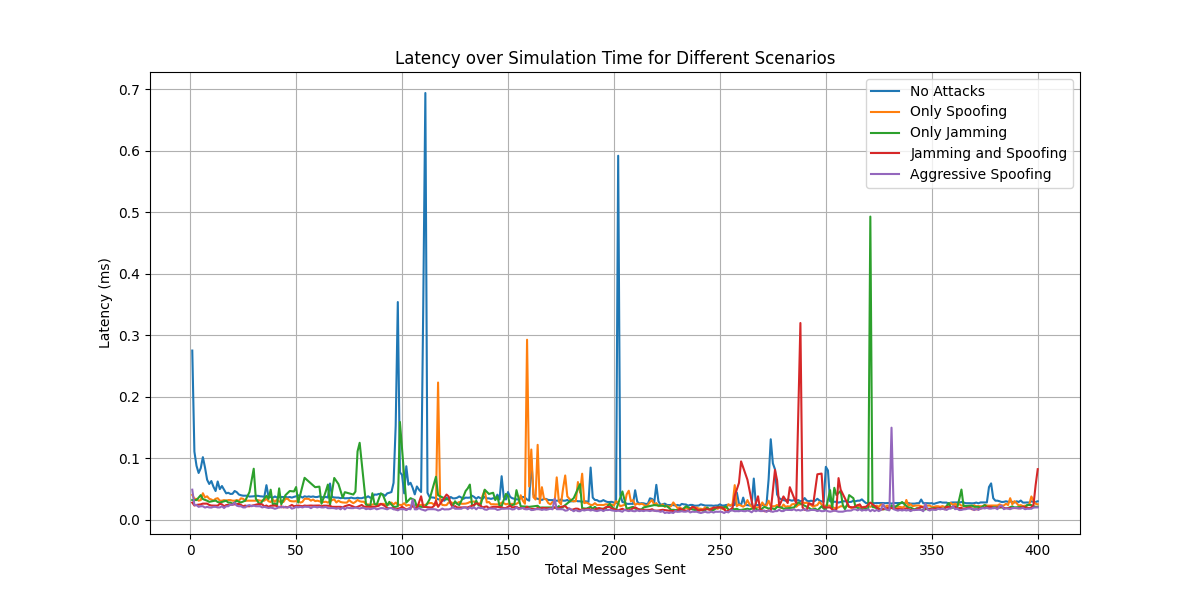
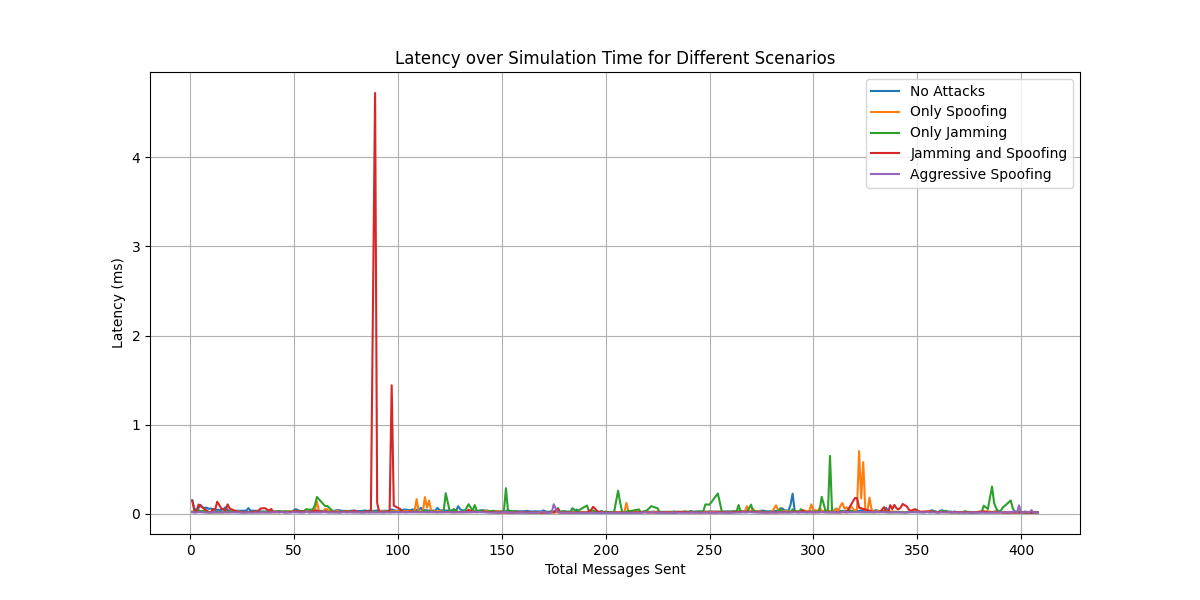
add files

diff --git a/channel.py b/channel.py
@@ -1,36 +1,82 @@
 import random
 import time
-
-
+import numpy as np
 
 class Channel:
-    def __init__(self, delay_mean=0.1, delay_std=0.05, error_rate=0.01):
+    def __init__(self, delay_mean=0.1, delay_std=0.05, error_rate=0.01, frequency=1090e6, noise_figure_db=5.0):
         """
         Initialize the channel with specified parameters.
         :param delay_mean: Mean of the transmission delay in seconds.
         :param delay_std: Standard deviation of the transmission delay.
         :param error_rate: Probability of a message being corrupted.
+        :param frequency: Frequency of the signal in Hz.
+        :param noise_figure_db: Noise figure of the receiver in dB.
         """
         self.delay_mean = delay_mean
         self.delay_std = delay_std
         self.error_rate = error_rate
+        self.frequency = frequency
+        self.noise_figure_db = noise_figure_db
+        self.light_speed = 3e8  # Speed of light in m/s
 
-    def transmit(self, message):
+    def haversine_distance(self, lat1, lon1, lat2, lon2):
+        R = 6371000  # Earth radius in meters
+        phi1, phi2 = np.radians(lat1), np.radians(lat2)
+        delta_phi = np.radians(lat2 - lat1)
+        delta_lambda = np.radians(lon2 - lon1)
+
+        a = (np.sin(delta_phi / 2) ** 2) + np.cos(phi1) * np.cos(phi2) * (np.sin(delta_lambda / 2) ** 2)
+        c = 2 * np.arctan2(np.sqrt(a), np.sqrt(1 - a))
+
+        return R * c  # Distance in meters
+
+    def free_space_path_loss(self, distance):
+        if distance <= 0:
+            return 0  # Avoid infinite loss
+        wavelength = self.light_speed / self.frequency
+        path_loss_db = 20 * np.log10(4 * np.pi * distance / wavelength)
+        return path_loss_db
+
+    def thermal_noise_power(self, bandwidth_hz):
+        k = 1.38e-23  # Boltzmann constant in J/K
+        T = 290  # Standard temperature in Kelvin
+        noise_power_watts = k * T * bandwidth_hz
+        noise_power_dbm = 10 * np.log10(noise_power_watts) + 30
+        return noise_power_dbm
+
+    def transmit(self, message, gcs_position, tx_power_dbm=50, bandwidth_hz=1e6):
         """
         Simulate the transmission of a message through the channel.
         :param message: The original message to be transmitted.
+        :param gcs_position: The position of the ground control station (latitude, longitude).
+        :param tx_power_dbm: Transmission power in dBm.
+        :param bandwidth_hz: Bandwidth of the signal in Hz.
         :return: The received message after channel effects.
         """
-        # Simulate transmission delay
-        delay = random.gauss(self.delay_mean, self.delay_std)
-        time.sleep(max(0, delay))
+        drone_lat, drone_lon = message["latitude"], message["longitude"]
+        gcs_lat, gcs_lon = gcs_position
 
-        # Simulate message corruption
-        if random.random() < self.error_rate:
-            corrupted_message = self.corrupt_message(message)
-            return corrupted_message, delay, True
-        else:
-            return message, delay, False
+        # Calculate distance and delay
+        distance = self.haversine_distance(drone_lat, drone_lon, gcs_lat, gcs_lon)
+        delay_seconds = distance / self.light_speed
+        delay_ns = np.round(delay_seconds * 1e9, decimals=2)
+        time.sleep(delay_seconds)
+
+        # Calculate path loss and noise power
+        path_loss_db = self.free_space_path_loss(distance)
+        noise_power_dbm = self.thermal_noise_power(bandwidth_hz)
+
+        # Calculate received power and SNR
+        rx_power_dbm = tx_power_dbm - path_loss_db
+        snr_db = rx_power_dbm - (noise_power_dbm + self.noise_figure_db)
+
+        # Simulate message corruption based on SNR and error rate
+        corrupted = False
+        if snr_db < 0 or random.random() < self.error_rate:
+            message = self.corrupt_message(message)
+            corrupted = True
+
+        return message, delay_ns, corrupted, snr_db
 
     def corrupt_message(self, message):
         """

diff --git a/n_scen_no_attack.py b/n_scen_no_attack.py
@@ -12,27 +12,38 @@ center_lat, center_lon = 38.8977, -77.0365  # White House location
 
 # Initialize GCS
 gcs = GCS(center_lat, center_lon)
+gcs_pos = (center_lat, center_lon)
 
 # Create a RouteGenerator instance
-route_gen = RouteGenerator(center_lat, center_lon, num_routes=3, waypoints_per_route=5, max_offset=0.02)
+route_gen = RouteGenerator(center_lat, center_lon, num_routes=1, waypoints_per_route=5, max_offset=0.02)
 routes = route_gen.generate_routes()
 
 # Initialize multiple drones with generated routes
 drones = [
-    Drone(id=f"{i+1}", drone_type=f"type{i+1}", acceleration_rate=2.0, climb_rate=3.0, speed=10.0 + i*5,
-          position_error=2.0, altitude_error=1.0, battery_consume_rate=0.05, battery_capacity=10.0 + i*5, route=routes[i])
+    Drone(
+        id=f"{i+1}",
+        drone_type=f"type{i+1}",
+        acceleration_rate=2.0,
+        climb_rate=3.0,
+        speed=10.0 + i * 5,
+        position_error=2.0,
+        altitude_error=1.0,
+        battery_consume_rate=0.05,
+        battery_capacity=10.0 + i * 5,
+        route=routes[i]
+    )
     for i in range(len(routes))
 ]
 
 # Initialize the communication channel
-channel = Channel(delay_mean=0.1, delay_std=0.05, error_rate=0.01)
+channel = Channel()
 
 # Create a figure for 3D plotting
 fig = plt.figure()
 ax = fig.add_subplot(111, projection='3d')
 
 # Plot waypoints
-colors = ['r', 'g', 'b', 'c', 'm', 'y', 'k']  # Extend as needed for more drones
+colors = ['r', 'g', 'b', 'c', 'm', 'y', 'k']
 for i, route in enumerate(routes):
     latitudes = [p[0] for p in route]
     longitudes = [p[1] for p in route]
@@ -48,7 +59,6 @@ for i, drone in enumerate(drones):
     marker, = ax.plot([], [], [], 'o', color=colors[i % len(colors)], markersize=6, label=f"Drone {drone.id}")
     drone_markers[drone.id] = marker
 
-# Set labels
 ax.set_xlabel("Latitude")
 ax.set_ylabel("Longitude")
 ax.set_zlabel("Altitude (m)")
@@ -74,18 +84,31 @@ def update(frame):
                 'timestamp': time.time()
             }
 
-            # Transmit message through the channel
-            received_message, delay, corrupted = channel.transmit(original_message)
+            # Simulate transmission from the drone to the GCS
+            received_message, delay_ns, corrupted, snr_db = channel.transmit(
+                original_message, gcs_pos
+            )
 
-            # Print original and received messages
-            print(f"Original Message from Drone {drone.id}: {original_message}")
-            if corrupted:
-                print(f"Received Corrupted Message at GCS after {delay:.2f}s delay: {received_message}")
-            else:
-                print(f"Received Message at GCS after {delay:.2f}s delay: {received_message}")
+            if received_message is None:
+                print(f"Drone {drone.id} message lost during transmission.")
+                continue
 
-            # Update GCS with the received (possibly corrupted) message
-            gcs.receive_update(drone.id, (received_message['latitude'], received_message['longitude'], received_message['altitude']))
+            # Display Results
+            print(f"Original Message: {original_message}")
+            print(f"Received Message (after channel effects): {received_message}")
+            print(f"Transmission Delay: {delay_ns:.2f} ns")
+            print(f"SNR: {snr_db:.2f} dB")
+            print(f"Message Corrupted: {'Yes' if corrupted else 'No'}")
+
+            # Update GCS with the received message
+            gcs.receive_update(
+                received_message['drone_id'],
+                (
+                    received_message['latitude'],
+                    received_message['longitude'],
+                    received_message['altitude']
+                )
+            )
 
             # Update drone marker position
             marker = drone_markers[drone.id]

diff --git a/cw_jammer.py b/cw_jammer.py
@@ -1,0 +1,33 @@
+import random
+import time
+
+class ContinuousWaveJammer:
+    """
+    This class simulates a continuous wave (CW) jamming mechanism.
+    CW jamming transmits a constant carrier signal intended to overpower or obstruct legitimate signals.
+    """
+    def __init__(self, jamming_probability=0.5, noise_intensity=0.7, jamming_power_dbm=-70):
+        """
+        :param jamming_probability: Probability of blocking each message entirely.
+        :param noise_intensity: Intensity of the noise (not used in CW jamming but kept for compatibility).
+        :param jamming_power_dbm: Power level of the jamming signal (in dBm).
+        """
+        self.jamming_probability = jamming_probability
+        self.noise_intensity = noise_intensity  # Kept for compatibility
+        self.jamming_power_dbm = jamming_power_dbm
+
+    def jam_signal(self, message):
+        """
+        A continuous wave jammer typically blocks the signal completely if jamming occurs.
+        """
+        if random.random() < self.jamming_probability:
+            print("[CW Jammer] Jamming message:", message)
+            # In a continuous wave scenario, we assume the message is fully lost.
+            return None, True
+        return message, False
+
+    def jamming_signal_power(self):
+        """
+        Returns the power of the CW jamming signal in dBm.
+        """
+        return self.jamming_power_dbm
